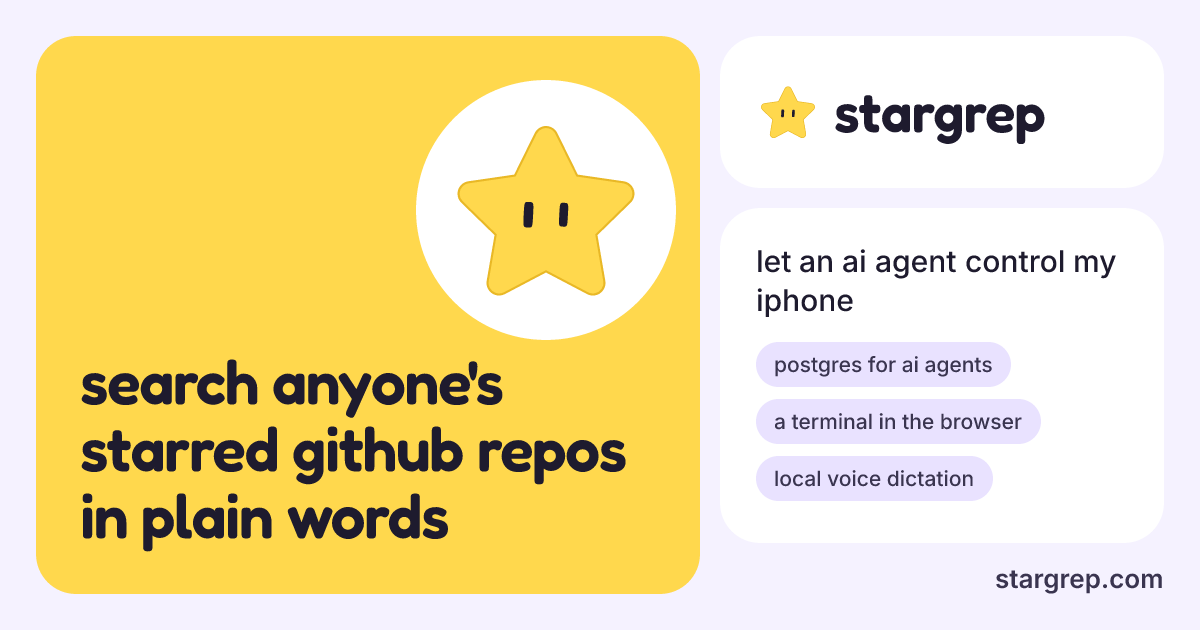
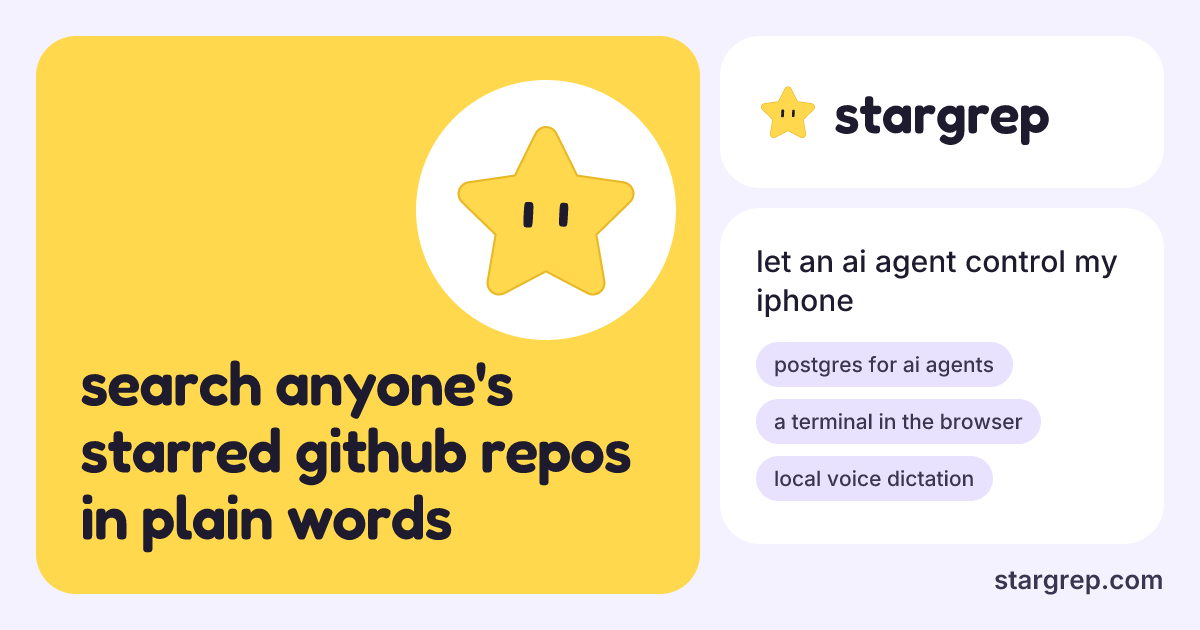
fix(web): draw the card with satori 0.32.0
Satori 0.33 and later shape text with harfbuzz, which compiles its
WebAssembly from bytes at runtime. Workerd refuses that, so the next PR's
per-account cards could not render in the Worker. 0.32.0 lays out with
yoga alone, which accepts a precompiled module.

diff --git a/apps/web/scripts/og-image.ts b/apps/web/scripts/og-image.ts
@@ -10,7 +10,7 @@ export const siteCardPath = new URL("../public/og.png", import.meta.url);
 
 export const siteCard = async () => {
   const render = cardRenderer({
-    layoutWasm: await file("satori/layout.wasm").bytes(),
+    layoutWasm: await file("satori/yoga.wasm").bytes(),
     resvgWasm: await file("@resvg/resvg-wasm/index_bg.wasm").bytes(),
     fonts: {
       fredoka600: await file("@fontsource/fredoka/files/fredoka-latin-600-normal.woff").arrayBuffer(),
